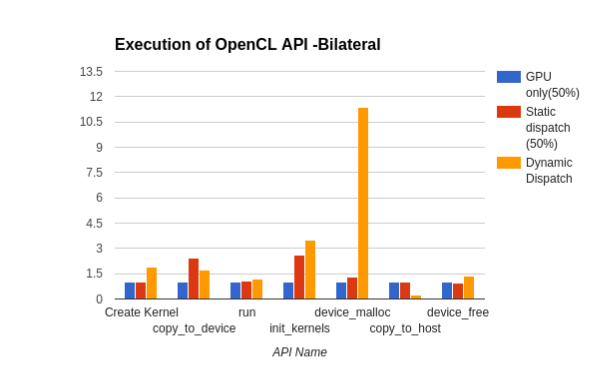
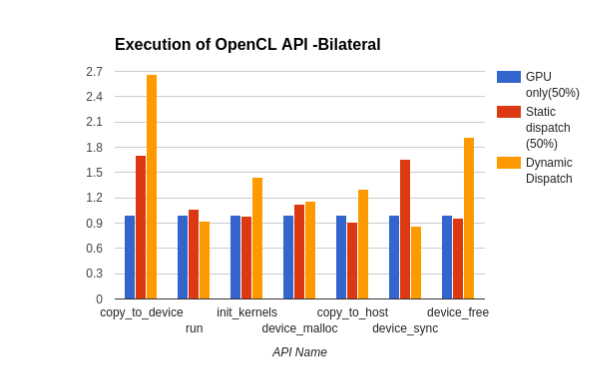
add conclusion

diff --git a/index.html b/index.html
@@ -22,8 +22,9 @@
           <h3> </h3><a href="#/2">Introduction</a>
           <h3> </h3><a href="#/3">Background Knowledge</a>
           <h3> </h3><a href="#/4">System Architecture</a>
-          <h3> </h3><a href="#/5">Implement Method</a>
+          <h3> </h3><a href="#/5">Implement</a>
           <h3> </h3><a href="#/6">Experiment Result</a>
+          <h3> </h3><a href="#/7">Conclusion</a>
         </section>
         <section>
           <section>
@@ -171,7 +172,7 @@ blur_y.compile_to_file("halide_blur", input);
             <h3>OpenCL with Multi Device </h3><img src="photos/MultiDeviceOpenCL.jpg" height="500px"/>
           </section>
           <section>
-            <h3>Architecture of other FluidiCL </h3><img src="photos/FluidiCLArch.jpg" height="500px"/>
+            <h3>Architecture of other FluidiCL </h3><img src="photos/FluidiCLArch.png" height="500px"/>
           </section>
           <section>
             <h3>Architecture of My Work</h3><img src="photos/myArch.jpg" height="500px"/>
@@ -192,6 +193,18 @@ blur_y.compile_to_file("halide_blur", input);
           </section>
           <section>
             <h3>Dynamic Dispatch</h3><img src="photos/DynamicDispatch.png" height="500px"/>
+          </section>
+          <section> 
+            <h3>Usage</h3>
+            <pre><code>
+local_laplacian_gpu(levels,alpha/(levels-1),beta,input,output);//Haldie function
+//Static Dispatch
+StaticDispatch static(input,output);
+static.realize(local_laplacian_cpu,local_laplacian_gpu,workload,levels,alpha/(levels-1),beta);
+//Dynamic Dispatch
+DynamicDispatch dynamic(input,output);
+dynamic.realize(local_laplacian_cpu,local_laplacian_gpu,levels,alpha/(levels-1),beta);
+</code></pre>
           </section>
         </section>
         <section>
@@ -224,49 +237,131 @@ blur_y.compile_to_file("halide_blur", input);
             </table>
           </section>
           <section>
+            <h2>Bilateral</h2>
+            <pre><code>
+for(int j= kernelStartY; j<= kernelEndY; j++)
+{       
+  for(int i= kernelStartX; i<= kernelEndX; i++)
+  {                       
+  unsigned int idx = max(0, min(j, height-1))*width + max(0, min(i,width-1));
+  float curPix[3];
+  curPix[0] = _in[idx].x;
+  curPix[1] = _in[idx].y;
+  curPix[2] = _in[idx].z;
+  float currWeight;
+  // define bilateral filter kernel weights
+  float imageDist = sqrt( (float)((i-x)*(i-x) + (j-y)*(j-y)) );
+
+  float colorDist = sqrt( (float)( (curPix[0] - ctrPix[0])*(curPix[0] - ctrPix[0]) +
+                   (curPix[1] - ctrPix[1])*(curPix[1] - ctrPix[1]) +
+                   (curPix[2] - ctrPix[2])*(curPix[2] - ctrPix[2]) ) );
+
+  currWeight = 1.0f/(exp((imageDist/id)*(imageDist/id)*0.5)*exp((colorDist/cd)*(colorDist/cd)*0.5));
+  sumWeight += currWeight;
+
+  _sum[0] += currWeight*curPix[0]; 
+  _sum[1] += currWeight*curPix[1];
+  _sum[2] += currWeight*curPix[2];
+  }  
+}</pre></code>
+          </section>
+          <section>
+            <h2>Local Laplacian</h2><img src="photos/StateFlow_locallaplacian.png"/>
+          </section>
+          <section>
             <h2>The influence of Workload </h2>
           </section>
           <section>
-            <h3>Bilateral-Workload between CPU and GPU at Nexus 7</h3><img src="photos/Result-Workload between CPU and GPU(Bilateral @ Nexus 7).png"/>
+            <h3>Bilateral-Workload between CPU and GPU at Nexus 7</h3><img src="photos/Result-Workload between CPU and GPU(Bilateral@Nexus7).png"/>
           </section>
           <section>
-            <h3>Bilateral-Workload between CPU and GPU at PC 1</h3><img src="photos/Result-Workload between CPU and GPU(Bilateral @ PC1).png"/>
+            <h3>Bilateral-Workload between CPU and GPU at PC 1</h3><img src="photos/Result-Workload between CPU and GPU(Bilateral@PC1).png"/>
           </section>
           <section>
-            <h3>Bilateral-Workload between CPU and GPU at PC 2</h3><img src="photos/Result-Workload between CPU and GPU(Bilateral @ PC2).png"/>
+            <h3>Bilateral-Workload between CPU and GPU at PC 2</h3><img src="photos/Result-Workload between CPU and GPU(Bilateral@PC2).png"/>
           </section>
           <section>
-            <h3>Local Laplacian-Workload between CPU and GPU at Nexus 7</h3><img src="photos/Result-Workload between CPU and GPU(LocalLaplacian @ Nexus 7).png"/>
+            <h3>Local Laplacian-Workload between CPU and GPU at Nexus 7</h3><img src="photos/Result-Workload between CPU and GPU(LocalLaplacian@Nexus7).png"/>
           </section>
           <section>
-            <h3>Local Laplacian-Workload between CPU and GPU at PC 1</h3><img src="photos/Result-Workload between CPU and GPU(LocalLaplacian @ PC1).png"/>
+            <h3>Local Laplacian-Workload between CPU and GPU at PC 1</h3><img src="photos/Result-Workload between CPU and GPU(LocalLaplacian@PC1).png"/>
           </section>
           <section>
-            <h3>Local Laplacian-Workload between CPU and GPU at PC 2</h3><img src="photos/Result-Workload between CPU and GPU(LocalLaplacian @ PC2).jpg"/>
+            <h3>Local Laplacian-Workload between CPU and GPU at PC 2</h3><img src="photos/Result-Workload between CPU and GPU(LocalLaplacian@PC2).png"/>
           </section>
           <section>
             <h2>The workload and static dispatch</h2>
           </section>
           <section>
-            <h3>Bilateral-Workload and static dispatch at Nexus 7</h3><img src="photos/Result-workload and static dispatch(Bilateral @ Nexus 7).png"/>
+            <h3>Bilateral-Workload and static dispatch at Nexus 7</h3><img src="photos/Result-workload and static dispatch(Bilateral@Nexus7).png"/>
           </section>
           <section>
-            <h3>Bilateral-Workload and static dispatch at PC 1 </h3><img src="photos/Result-workload and static dispatch(Bilateral @ PC1).png"/>
+            <h3>Bilateral-Workload and static dispatch at PC 1 </h3><img src="photos/Result-workload and static dispatch(Bilateral@PC1).png"/>
           </section>
           <section>
-            <h3>Bilateral-Workload and static dispatch at PC 2 </h3><img src="photos/Result-workload and static dispatch(Bilateral @ PC2).png"/>
+            <h3>Bilateral-Workload and static dispatch at PC 2 </h3><img src="photos/Result-workload and static dispatch(Bilateral@PC2).png"/>
           </section>
           <section>
-            <h3>Local Laplacian-Workload and static dispatch at Nexus 7</h3><img src="photos/Result-workload and static dispatch(LocalLaplacian @ Nexus 7).png"/>
+            <h3>Local Laplacian-Workload and static dispatch at Nexus 7</h3><img src="photos/Result-workload and static dispatch(LocalLaplacian@Nexus7).png"/>
           </section>
           <section>
-            <h3>Local Laplacian-Workload and static dispatch at PC 1</h3><img src="photos/Result-workload and static dispatch(LocalLaplacian @ PC1).png"/>
+            <h3>Local Laplacian-Workload and static dispatch at PC 1</h3><img src="photos/Result-workload and static dispatch(LocalLaplacian@PC1).png"/>
           </section>
           <section>
-            <h3>Local Laplacian-Workload and static dispatch at PC 2</h3><img src="photos/Result-workload and static dispatch(LocalLaplacian @ PC2).png"/>
+            <h3>Local Laplacian-Workload and static dispatch at PC 2</h3><img src="photos/Result-workload and static dispatch(LocalLaplacian@PC2).png"/>
+          </section>
+          <section>
+            <h2>OpenCL Profile information</h2>
+          </section>
+          <section>
+            <h3>Execution of OpenCL API (Bilateral at PC 1)</h3><img src="photos/ExecutionTimeOfAPI(Bilateal @ PC1).png"/>
+          </section>
+          <section>
+            <h3>Execution of OpenCL API (Bilateral at PC 2)</h3><img src="photos/ExecutionTimeOfAPI(Bilateal @ PC2).png"/>
           </section>
           <section> 
-            <h3> </h3>
+            <h2>CUDA V.S OpenCL</h2>
+          </section>
+          <section>
+            <h3>Comparison between CUDA and OpenCL - Bilateral</h3><img src="photos/Comparison between CUDA and OpenCL(Bilateral).png"/>
+          </section>
+          <section>
+            <h3>Comparison between CUDA and OpenCL - Local Laplacian</h3><img src="photos/Comparison between CUDA and OpenCL(Local Laplacian).png"/>
+          </section>
+        </section>
+        <section>
+          <section> 
+            <h1>Conclusion</h1>
+          </section>
+          <section>
+            <h2>Static Dispatch</h2>
+          </section>
+          <section>
+            <h2>When processing Bilateral Static Dispatch improves</h2>
+            <ul>
+              <li class="fragment highlight-red"><strong>21%</strong> at Nexus 7</li>
+              <li class="fragment highlight-red"><strong>66%</strong> at PC 1 &nbsp&nbsp&nbsp&nbsp&nbsp</li>
+              <li class="fragment highlight-red"><strong>16%</strong> at PC 2 &nbsp&nbsp&nbsp&nbsp&nbsp </li>
+            </ul>
+          </section>
+          <section>
+            <h2>When processing Local Laplacian Static Dispatch improves</h2>
+            <ul>
+              <li class="fragment highlight-red"><strong>24%</strong> at Nexus 7</li>
+              <li class="fragment highlight-red"><strong>23%</strong> at PC 1 &nbsp&nbsp&nbsp&nbsp&nbsp</li>
+              <li class="fragment highlight-red"><strong>11%</strong> at PC 2 &nbsp&nbsp&nbsp&nbsp&nbsp </li>
+            </ul>
+          </section>
+          <section>
+            <h2>Dynamic Dispatch</h2>
+          </section>
+          <section>
+            <h2>When processing Bilateral Dynamic Dispatch improves</h2>
+            <ul>
+              <li class="fragment highlight-red"><strong>8%</strong>&nbsp&nbsp at Nexus 7</li>
+              <li class="fragment highlight-red"><strong>57%</strong> at PC 1 &nbsp&nbsp&nbsp&nbsp&nbsp</li>
+              <li class="fragment highlight-red"><strong>6%</strong>&nbsp&nbsp at PC 2 &nbsp&nbsp&nbsp&nbsp&nbsp </li>
+            </ul>
           </section>
         </section>
       </div>
